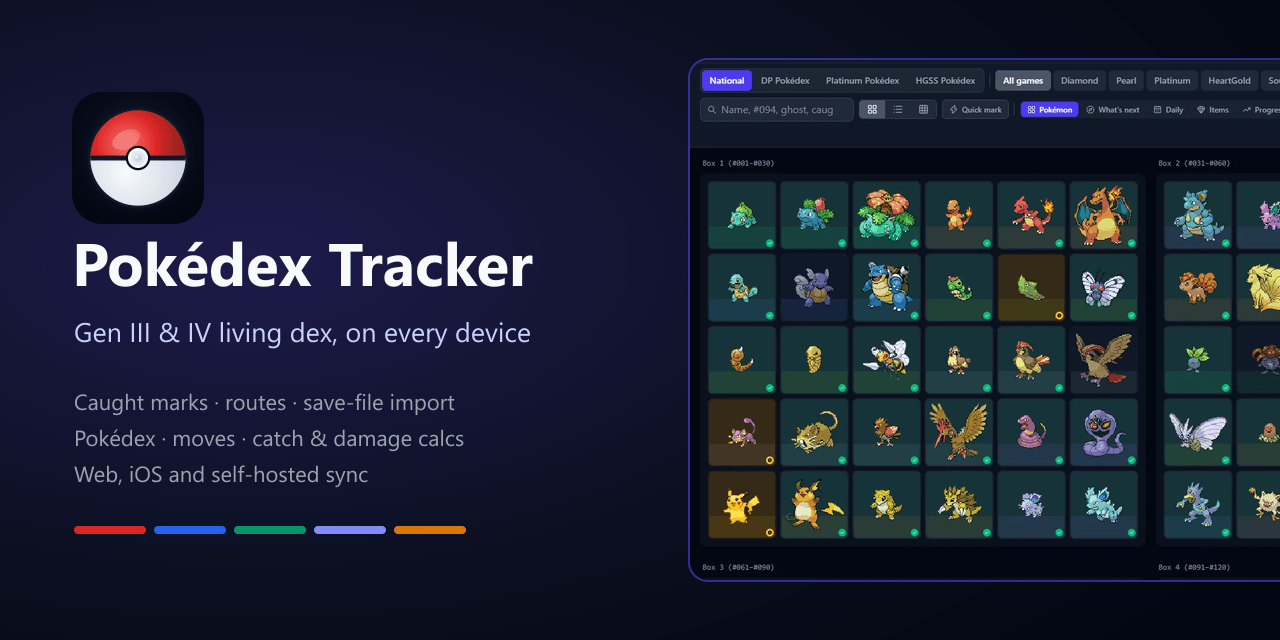
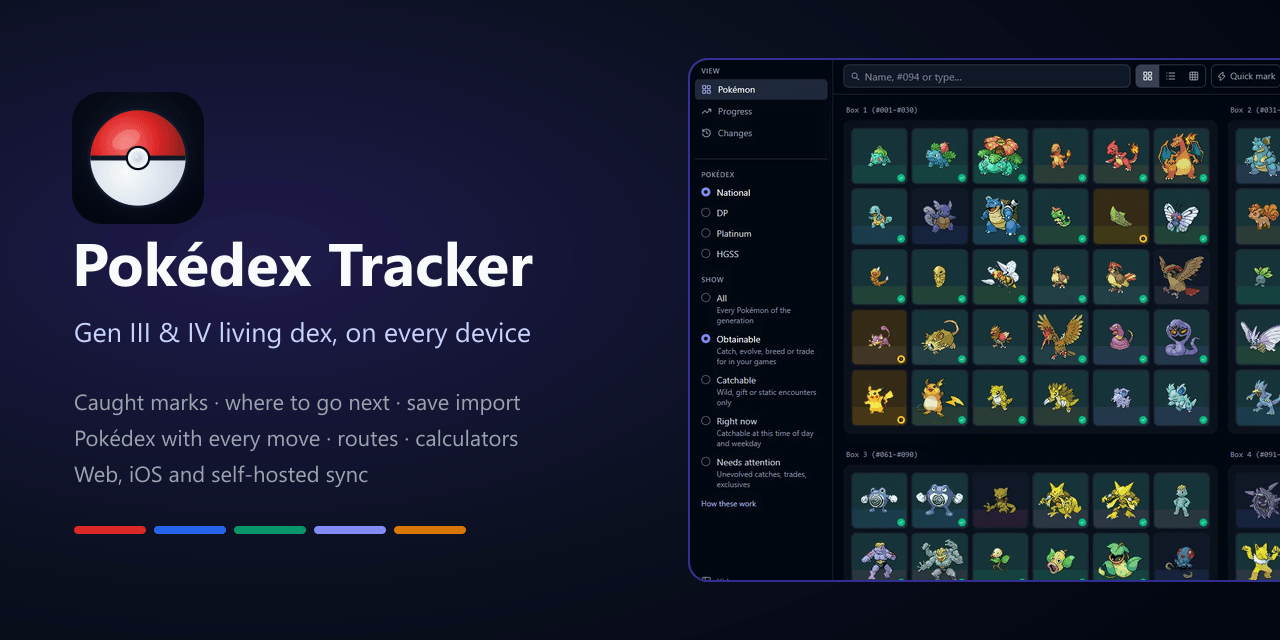
docs: README and social preview for the new layout
- README features: Plan, the game switcher, Pokédex with Moves, Tools, and
  how it fits phones, iPads (Split View too) and desktops.
- Quick mark GIF retaken; capture-screenshots can now record it
  (SHOTS=quick-mark).
- Social preview: the new tracker and wording.

Changed region(s): [[0.5312, 0.0938, 1.0, 0.9062], [0.125, 0.625, 0.4062, 0.7188], [0.5625, 0.875, 0.5938, 0.9062]]

diff --git a/scripts/capture-screenshots.ts b/scripts/capture-screenshots.ts
@@ -2,7 +2,7 @@
  * Captures the README screenshots into docs/screenshots/ as WebP.
  *
  *   npm run screenshots        (builds first)
- *   SHOTS=settings,pokedex     only those (names from SHOTS below)
+ *   SHOTS=settings,pokedex     only those (names from SHOTS below; "quick-mark" is the README's GIF)
  *   SIZES=834x1194,1194x834    at these viewports instead (named <shot>-<w>x<h>.webp)
  *   OUT_DIR=some/folder        write there instead of docs/screenshots/
  *
@@ -217,6 +217,70 @@ async function capture(
   await context.close();
 }
 
+/**
+ * docs/screenshots/quick-mark.gif: Quick mark on, a few uncaught Pokémon clicked one after another,
+ * each showing its Undo toast. Frames are screenshots, joined into a looping GIF by sharp.
+ */
+async function captureQuickMarkGif(browser: Browser): Promise<void> {
+  const width = 1200;
+  const height = 720;
+  const context = await browser.newContext({
+    viewport: { width, height },
+    colorScheme: "dark",
+    serviceWorkers: "block",
+  });
+  const storage = demoStorage("dark");
+  const settings = JSON.parse(storage["pokedex-settings-v1"]);
+  Object.assign(settings.state, { viewMode: "box", quickMark: true, gestureHintDismissed: true });
+  storage["pokedex-settings-v1"] = JSON.stringify(settings);
+  const dex = JSON.parse(storage["pokedex-tracker-v2"]);
+  const marked = new Set<number>([...(dex.state.caughtByGen[4] ?? []), ...(dex.state.pendingByGen[4] ?? [])]);
+  await context.addInitScript((entries) => {
+    if (sessionStorage.getItem("seeded")) return;
+    sessionStorage.setItem("seeded", "1");
+    for (const [key, value] of Object.entries(entries)) localStorage.setItem(key, value);
+  }, storage);
+
+  const page = await context.newPage();
+  await page.goto(`${BASE}/#/tracker`);
+  await page.locator("main").first().waitFor({ timeout: 20_000 });
+  await settle(page);
+
+  const frames: Buffer[] = [];
+  const delays: number[] = [];
+  const frame = async (ms: number) => {
+    frames.push(
+      await sharp(await page.screenshot())
+        .resize({ width: 720 })
+        .png()
+        .toBuffer(),
+    );
+    delays.push(ms);
+  };
+  await frame(1200);
+  // The first few uncaught Pokémon in view
+  const targets = Array.from({ length: 60 }, (_, i) => i + 1)
+    .filter((id) => !marked.has(id))
+    .slice(0, 4);
+  for (const id of targets) {
+    const cell = page.locator(`main [title^="#${String(id).padStart(3, "0")} "]`).first();
+    if (!(await cell.isVisible())) continue;
+    await cell.hover();
+    await frame(350);
+    await cell.click();
+    await page.waitForTimeout(250);
+    await frame(900);
+  }
+  await page.waitForTimeout(300);
+  await frame(1600);
+
+  await sharp(frames, { join: { animated: true } })
+    .gif({ delay: delays, loop: 0, effort: 7 })
+    .toFile(path.join(OUT, "quick-mark.gif"));
+  console.log("  quick-mark.gif");
+  await context.close();
+}
+
 async function run(): Promise<void> {
   if (!fs.existsSync(path.join(ROOT, "dist/index.html")))
     throw new Error("dist/ is missing — run `npm run build` first.");
@@ -228,6 +292,7 @@ async function run(): Promise<void> {
     const only = process.env.SHOTS?.split(",");
     // SIZES=834x1194,1194x834 captures at those viewports only (a tablet, say)
     const sizes = process.env.SIZES?.split(",").map((size) => size.split("x").map(Number));
+    if (!sizes && (!only || only.includes("quick-mark"))) await captureQuickMarkGif(browser);
     for (const shot of SHOTS.filter((s) => !only || only.includes(s.name))) {
       if (sizes) {
         for (const [width, height] of sizes) await capture(browser, shot, width, height, "dark", true);

diff --git a/README.md b/README.md
@@ -24,7 +24,7 @@ All 493 Pokémon of Generations I–IV, in the games you are playing: Ruby, Sapp
 |                                                                                                                              |                                                                                                                                       |
 | ---------------------------------------------------------------------------------------------------------------------------- | ------------------------------------------------------------------------------------------------------------------------------------- |
 | <img src="docs/screenshots/pokedex-desktop.webp" alt="Pokédex page for Gengar: types, ability, gender ratio and base stats"> | <img src="docs/screenshots/where-to-go-desktop.webp" alt="Plan, Where to go: places ranked by uncaught Pokémon, beside the open one"> |
-| **Pokédex**: Gen IV stats, moves and locations                                                                               | **Plan → Where to go**: places for what's missing                                                                                     |
+| **Pokédex**: stats, moves and locations                                                                                      | **Plan → Where to go**: places for what's missing                                                                                     |
 | <img src="docs/screenshots/progress-desktop.webp" alt="Progress over time chart with milestones">                            | <img src="docs/screenshots/routes-desktop.webp" alt="Eterna Forest encounter table by game and method">                               |
 | **Progress**: catches over time and milestones                                                                               | **Routes**: encounter tables by game, method and time                                                                                 |
 | <img src="docs/screenshots/tracker-list-desktop.webp" alt="Tracker list view with sortable columns">                         | <img src="docs/screenshots/tracker-desktop-burnished.webp" alt="The tracker in the Burnished theme">                                  |
@@ -38,12 +38,12 @@ All 493 Pokémon of Generations I–IV, in the games you are playing: Ruby, Sapp
 
 ## Features
 
-- **Tracker**: box, list and PC-slot views with caught, pending, shiny and placed marks; filter by game, regional dex and what you can actually get; every change has Undo and a change log.
+- **Tracker**: box, list and PC-slot views with caught, pending, shiny and placed marks. Pick the games you're playing once, at the top, and choose a regional dex and what to show (everything, what you can get, what's catchable right now…) from the sidebar. Every change has Undo and a change log.
+- **Plan**: what to do next and what you keep track of in one tab — where to go for what's missing (places ranked by uncaught Pokémon, with rates, time of day and weekday events; printable, or saved as phone-sized images), who to level up and where to get the EXP, today's events and roaming legendaries, evolution items, plus a working-on list, per-Pokémon notes, a run journal and a shiny hunt counter.
 - **Save import**: read a `.sav` from any of the ten games in the browser (never uploaded), browse the boxes, review the marks it proposes, and plan a living dex with a to-do list, transfers and trades.
-- **What can I get next**: the routes in your games ranked by how many uncaught Pokémon they have, with encounter rates, time of day and weekday events; printable, or saved as phone-sized images.
-- **Pokédex (with every move) and Routes**: stats, learnsets, evolutions, breeding and where to find each Pokémon, as they were in Gen III/IV; every Pokémon, move and place links to its page.
-- **Calculators**: catch rate, Gen IV damage, a team designer with IV/EV tools, and every Battle Tower trainer set.
-- **Plan**: where to go next, who to level up, today's events and evolution items, beside per-Pokémon notes, a "working on" list, a run journal and a shiny hunt counter, all synced and printable.
+- **Pokédex and Routes**: stats, learnsets, evolutions, breeding and where to find each Pokémon as they were in Gen III/IV, every move with who learns it, a move-combo search and an HM planner; every Pokémon, move and place links to its page.
+- **Tools**: catch rate, Gen IV damage, a team designer with IV/EV tools, and every Battle Tower trainer set.
+- **Every screen**: a sidebar on a desktop or an iPad in landscape, tabs in portrait, and a bottom bar on a phone — sized by the window, so iPad Split View and Slide Over work too.
 - **Works offline**: installs as an app and opens with no connection once loaded.
 - **Sync**: a small self-hosted server merges changes entry by entry, so two devices never overwrite each other; server snapshots let you undo a bad day.
 
